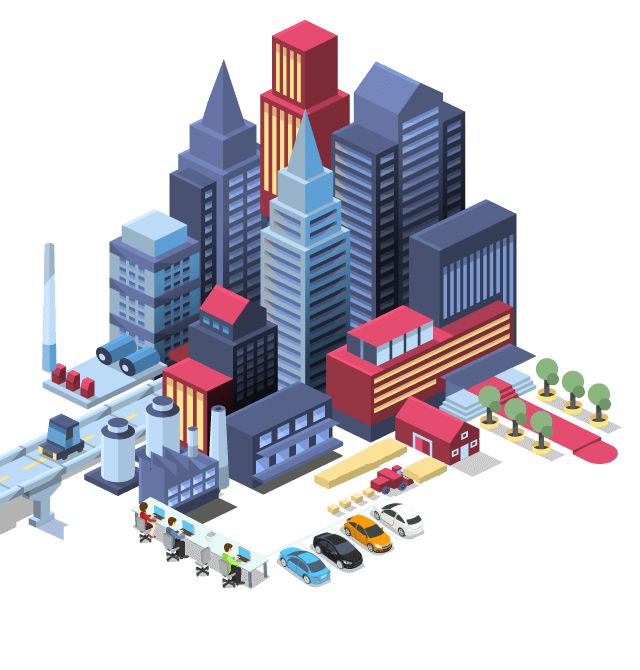
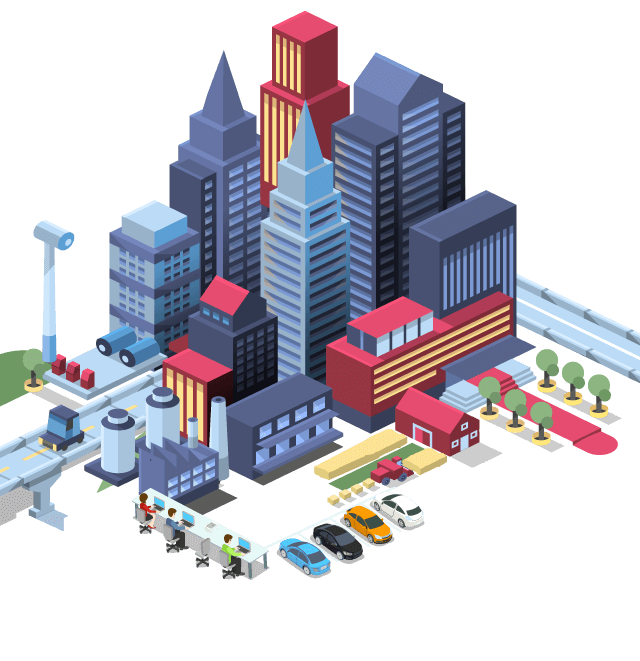
fix bug, add amimation

Changed region(s): [[0.0, 0.0605, 1.0, 0.8775], [0.4062, 0.0, 0.5312, 0.0908], [0.0312, 0.3328, 0.125, 0.4236]]

diff --git a/src/components/Home.vue b/src/components/Home.vue
@@ -1,12 +1,24 @@
 <template>
 	<div class="swiper-slide home">
-    <img src="../../static/home-title.png" class="home-title ani" swiper-animate-effect="swing" swiper-animate-duration="1.5s" swiper-animate-delay="0.3s">
+    <!--<img src="../../static/home-title.png" class="home-title ani" swiper-animate-effect="swing" swiper-animate-duration="1.5s" swiper-animate-delay="0.3s">
     <img src="../../static/home-slogan.png" class="home-slogan ani" swiper-animate-effect="fadeIn" swiper-animate-duration="0.5s" swiper-animate-delay="1s">
     <div class="bottom">
       <img src="../../static/home-bgs.png" class="building-img" :class="{ buildingsfade: startAnimation }">
     </div>
     <div class="bottom buildings">
       <img src="../../static/buildings2.png" class="building-img" :class="{ buildingsrise: startAnimation }">
+    </div>-->
+    <img src="../../static/home-title.png" class="home-title">
+    <img src="../../static/home-slogan.png" class="home-top-item">
+    <img src="../../static/home-bottom.png" class="building-img" :class="{ buildingsfade: startAnimation }">
+    <img src="../../static/home-buildings.png" class="building-img" :class="{ buildingsrise: startAnimation }">
+    <img src="../../static/home-cloud.png" class="building-img home-cloud">
+    <img src="../../static/home-logo.png" class="building-img home-logo">
+    <img src="../../static/home-car.png" class="building-img">
+    <img src="../../static/home-bike.png" class="building-img">
+    <div class="windmill-container building-img">
+      <img src="../../static/home-windmill-range.png" class="windmill-range">
+      <img src="../../static/home-windmill-leaves.png" class="windmill-leave">
     </div>
 	</div>
 </template>
@@ -29,6 +41,13 @@
 		height: 100%;
     position: relative;
 	}
+  .home-top-item {
+    width: 100%;
+    height: auto;
+    position: absolute;
+    top: 0;
+    left: 0;
+  }
   .home-title {
     width: 75%;
     height: auto;
@@ -37,14 +56,14 @@
     left: 20px;
     z-index: 3;
   }
-  .home-slogan {
+  /*.home-slogan {
     width: 46%;
     height: auto;
     position: relative;
     top: -14%;
     left: 15px;
     z-index: 3;
-  }
+  }*/
   .bottom {
     position: absolute;
     width: 100%;
@@ -61,6 +80,19 @@
     vertical-align: top;
     width: 100%;
     height: auto;
+    position: absolute;
+    bottom: 0;
+    left: 0;
+  }
+  .windmill-range {
+    width: 100%;
+    height: auto;
+  }
+  .windmill-leave {
+    width: 22%;
+    position: absolute;
+    top: 0;
+    left: 0;
   }
   .animation-container {
     width: 100%;
@@ -91,10 +123,28 @@
     }
   }
   .buildingsrise {
-    animation: opacity-fade 3.0s linear;
+    animation: opacity-fade 0.5s linear;
+    -webkit-animation: opacity-fade 0.5s linear;
     /*animation-delay: 1.0s;*/
   }
   .buildingsfade {
-    animation: opacity-fade 2.0s linear;
+    animation: opacity-fade 0.5s linear;
+    -webkit-animation: opacity-fade 0.5s linear;
+  }
+  .home-cloud {
+    animation: infinite-fade 2.0s linear infinite;
+    -webkit-animation: infinite-fade 2.0s linear infinite;
+  }
+  @keyframes logo-fade {
+    0%, 100% { opacity: 0.5 }
+    50% { opacity: 1 }
+  }
+  @-webkit-keyframes logo-fade {
+    0%, 100% { opacity: 0.5 }
+    50% { opacity: 1 }
+  }
+  .home-logo {
+    animation: logo-fade 3.0s linear infinite;
+    -webkit-animation: logo-fade 3.0s linear infinite;
   }
 </style>

diff --git a/index.html b/index.html
@@ -119,7 +119,7 @@
           <div class="dot bid-dot"></div>
         </div>
       </div>
-			<p class="percent-value"><span id="loading-value">99</span>%</p>
+			<p class="percent-value"><span id="loading-value">20</span>%</p>
 		</div>
 	</div>
 	<style>
@@ -211,6 +211,7 @@
       left: -20px;
       top: 40px;
       animation: spinner-fade 0.8s linear infinite;
+      -webkit-animation: spinner-fade 0.8s linear infinite;
     }
 
     .bid-dot {
@@ -220,19 +221,22 @@
       top: 32px;
       left: -55px;
       animation: spinner-fade 0.8s linear infinite;
+      -webkit-animation: spinner-fade 0.8s linear infinite;
       animation-delay: 0.1s;
+      -webkit-animation-delay: 0.1s;
     }
 	</style>
 	<script>
     let valueEl = document.querySelector('#loading-value');
-    let value = (Math.random() * 10 + 70);
+    let value = Math.floor((Math.random() * 10 + 70));
     let increaseValue = setInterval(() => {
-      valueEl.innerHTML = value;
-      value = value + 1;
-      if (value === 100) {
+      if (value >= 99) {
         clearInterval(increaseValue);
+        valueEl.innerHTML = 99;
         return;
       }
+      valueEl.innerHTML = value;
+      value = value + 1;
     }, 500);
   </script>
 </body>

diff --git a/src/components/vertical/Logo.vue b/src/components/vertical/Logo.vue
@@ -51,6 +51,7 @@
     bottom: 25px;
     width: 100%;
     animation: bounce-down 1s linear infinite;
+    -webkit-animation: bounce-down 1s linear infinite;
   }
 
   .up-angel {
@@ -69,6 +70,7 @@
     top: 272px;
     left: 0;
     animation: infinite-fade 2.0s linear infinite;
+    -webkit-animation: infinite-fade 2.0s linear infinite;
   }
 
   .bottom {
